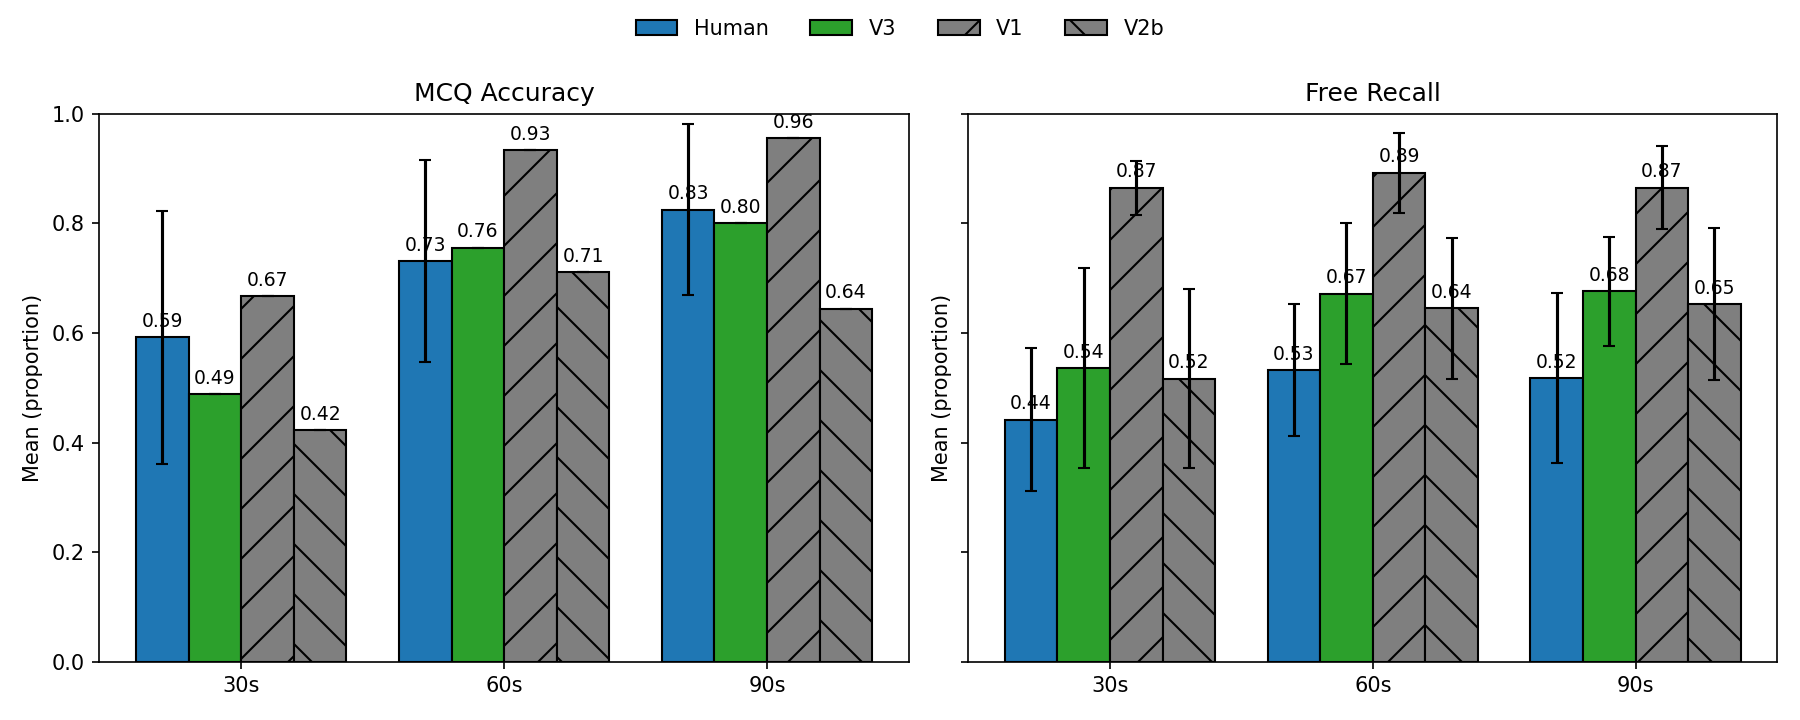
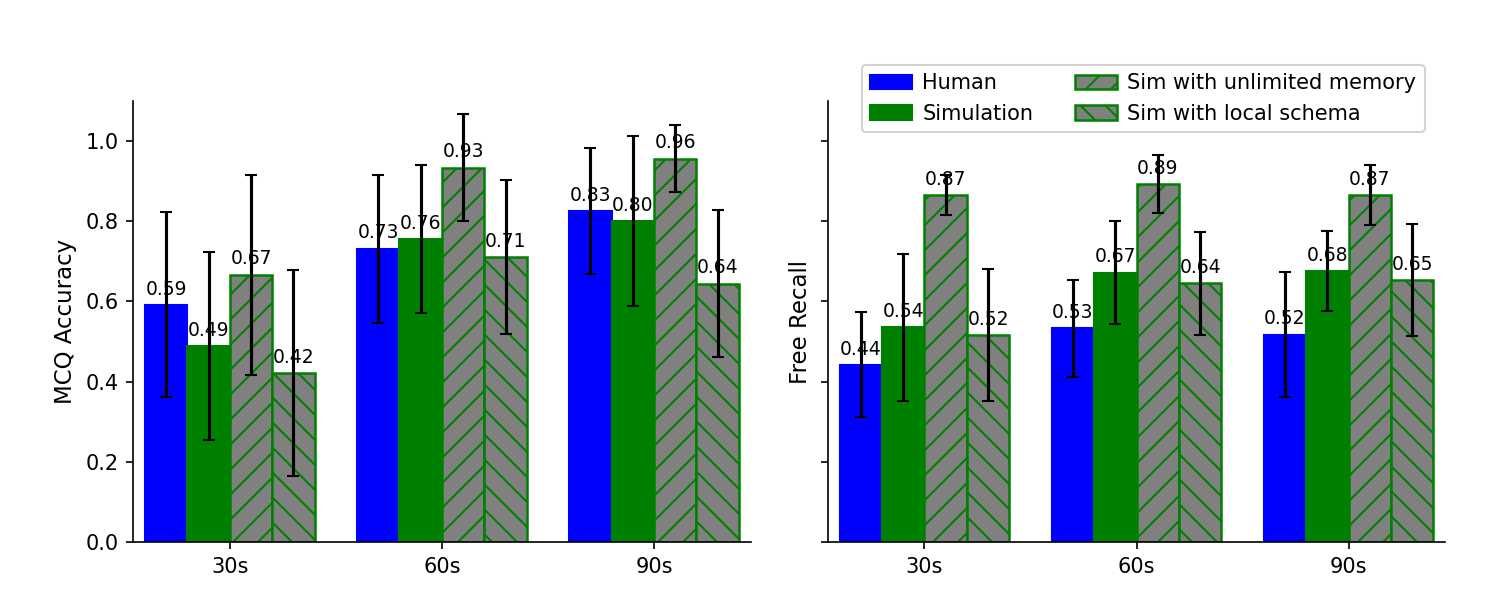
Code >> Plot comprehension results (v3) and baselines (v1 and v2b).

diff --git a/step5/simulators/simulator_v20250604/results/analyze_aggregated_results/offline_kintsch_text_comprehension_runner/plot/plot.py b/step5/simulators/simulator_v20250604/results/analyze_aggregated_results/offline_kintsch_text_comprehension_runner/plot/plot.py
@@ -2,7 +2,7 @@
 # -*- coding: utf-8 -*-
 
 """
-plot.py — Compare human vs three simulation variants (v3, v1, v2b)
+plot.py - Compare human vs three simulation variants (v3, v1, v2b)
 
 Usage:
   python plot.py \
@@ -11,15 +11,15 @@ Usage:
     --v3        path/to/comprehension_metrics_v3.json \
     --v1        path/to/comprehension_metrics_v1.json \
     --v2b       path/to/comprehension_metrics_v2b.json \
-    --out       path/to/output.png
+    --out       path/to/output.png \
+    [--title "Comprehension (MCQ & Free Recall)"]
 
-Notes:
-- Draws TWO subplots in ONE figure:
-    Left  : MCQ means @ 30s, 60s, 90s
-    Right : Free Recall means @ 30s, 60s, 90s
-- Bars are grouped per time bin with the order: Human (blue), V3 (green), V1 (grey / hatch), V2b (grey \\ hatch)
-- Error bars show std if provided.
-- Annotates each bar with its mean value.
+Style choices per request:
+- Figure size & font sizes tuned for compactness
+- Legend placed INSIDE the figure (on FR panel)
+- Figure-level title right-aligned
+- Human = blue; V3 = green; V1/V2b = grey bars with GREEN edges & hatches
+- Two subplots in one figure (left: MCQ, right: Free Recall). No linking lines.
 """
 
 import argparse
@@ -28,6 +28,17 @@ from pathlib import Path
 from typing import Dict, Tuple
 
 import matplotlib.pyplot as plt
+
+# ---------- Global style ----------
+plt.rcParams.update({
+    "figure.figsize": (10, 4.1),
+    "font.size": 11,
+    "axes.titlesize": 12,
+    "axes.labelsize": 11,
+    "xtick.labelsize": 10,
+    "ytick.labelsize": 10,
+    "legend.fontsize": 10,
+})
 
 TIME_BINS = ("30s", "60s", "90s")
 
@@ -40,7 +51,7 @@ HUMAN_FR_STD_KEY   = "fr_std_by_time"
 
 # Simulation files (each contains both MCQ + FR):
 SIM_MCQ_MEAN_KEY = "mcq_accuracy_by_time"
-SIM_MCQ_STD_KEY  = "mcq_std_by_time"        # optional
+SIM_MCQ_STD_KEY  = "mcq_accuracy_std_by_time"        # optional
 SIM_FR_MEAN_KEY  = "fr_mean_by_time"
 SIM_FR_STD_KEY   = "fr_std_by_time"         # optional
 
@@ -109,19 +120,21 @@ def annotate_bars(ax, rects, values):
                     ha="center", va="bottom", fontsize=9)
 
 
-def plot(human, v3, v1, v2b, out_path: Path):
-    # color / hatch per spec
-    colors = {
-        "human": "#1f77b4",  # blue
-        "v3":    "#2ca02c",  # green
-        "v1":    "#7f7f7f",  # grey
-        "v2b":   "#7f7f7f",  # grey
-    }
-    hatches = {
-        "human": None,
-        "v3":    None,
-        "v1":    "/",
-        "v2b":   "\\",
+def plot(human, v3, v1, v2b, out_path: Path, fig_title: str):
+    # palette
+    # blue  = "#1f77b4"  # human
+    # green = "#2ca02c"  # v3 + edge/hatch for baselines
+    grey  = "#7f7f7f"  # baseline fill
+    blue = "blue"
+    green = "green"
+    grey = "grey"
+
+    # face/edge/hatch per series
+    series_style = {
+        "human": dict(color=blue,  edgecolor=blue,  hatch=None,   linewidth=1.0),
+        "v3":    dict(color=green, edgecolor=green, hatch=None,   linewidth=1.0),
+        "v1":    dict(color=grey,  edgecolor=green, hatch="//",   linewidth=1.2),
+        "v2b":   dict(color=grey,  edgecolor=green, hatch="\\\\",  linewidth=1.2),
     }
 
     # Unpack dicts
@@ -133,38 +146,46 @@ def plot(human, v3, v1, v2b, out_path: Path):
     # Values in plotting order: Human, V3, V1, V2b
     groups = [
         ("Human", "human", h_mcq_mean, h_mcq_std, h_fr_mean, h_fr_std),
-        ("V3",    "v3",    v3_mcq_mean, v3_mcq_std, v3_fr_mean, v3_fr_std),
-        ("V1",    "v1",    v1_mcq_mean, v1_mcq_std, v1_fr_mean, v1_fr_std),
-        ("V2b",   "v2b",   v2_mcq_mean, v2_mcq_std, v2_fr_mean, v2_fr_std),
+        ("Simulation",    "v3",    v3_mcq_mean, v3_mcq_std, v3_fr_mean, v3_fr_std),
+        ("Sim with unlimited memory",    "v1",    v1_mcq_mean, v1_mcq_std, v1_fr_mean, v1_fr_std),
+        ("Sim with local schema",   "v2b",   v2_mcq_mean, v2_mcq_std, v2_fr_mean, v2_fr_std),
     ]
 
-    fig, axes = plt.subplots(1, 2, figsize=(12, 4.8), sharey=True)
+    fig, axes = plt.subplots(1, 2, sharey=True)
     mcq_ax, fr_ax = axes
 
     def draw_panel(ax, pick_mean, pick_std, title):
         n_bins = len(TIME_BINS)
         n_groups = len(groups)
         x = list(range(n_bins))
-        total_group_width = 0.8
+        total_group_width = 0.80
         bar_w = total_group_width / n_groups
-
+        
         for i, (label, key, mcq_m, mcq_s, fr_m, fr_s) in enumerate(groups):
             means = [pick_mean(mcq_m, fr_m)[t] for t in TIME_BINS]
             stds  = [pick_std(mcq_s, fr_s)[t]  for t in TIME_BINS]
             offsets = [xi - total_group_width/2 + (i + 0.5)*bar_w for xi in x]
+
+            style = series_style[key]
             rects = ax.bar(offsets, means, bar_w,
                            label=label,
-                           color=colors[key],
-                           hatch=hatches[key],
-                           edgecolor="black",
-                           yerr=stds, capsize=3)
+                           yerr=stds, capsize=3,
+                           edgecolor=style["edgecolor"],
+                           linewidth=style["linewidth"],
+                           color=style["color"],
+                           hatch=style["hatch"])
             annotate_bars(ax, rects, means)
 
         ax.set_xticks(x)
         ax.set_xticklabels(TIME_BINS)
-        ax.set_ylim(0, 1.0)
-        ax.set_title(title)
-        ax.set_ylabel("Mean (proportion)")
+        ax.set_ylim(0, 1.1)
+        # ax.set_title(title, loc="left")
+        ax.set_ylabel(title)
+        ax.margins(x=0.02)
+
+        # cleaner look
+        for spine in ("top", "right"):
+            ax.spines[spine].set_visible(False)
 
     # Left: MCQ
     draw_panel(
@@ -174,7 +195,7 @@ def plot(human, v3, v1, v2b, out_path: Path):
         title="MCQ Accuracy"
     )
 
-    # Right: Free Recall
+    # Right: Free Recall and legend inside this panel
     draw_panel(
         fr_ax,
         pick_mean=lambda mcq_m, fr_m: fr_m,
@@ -182,9 +203,19 @@ def plot(human, v3, v1, v2b, out_path: Path):
         title="Free Recall"
     )
 
-    handles, labels = mcq_ax.get_legend_handles_labels()
-    fig.legend(handles, labels, loc="upper center", ncol=4, frameon=False)
-    fig.tight_layout(rect=[0, 0, 1, 0.92])
+    # Single legend INSIDE FR panel, compact
+    handles, labels = fr_ax.get_legend_handles_labels()
+    fr_ax.legend(handles[:4], labels[:4],
+                 loc="upper right", bbox_to_anchor=(0.98, 1.1),
+                 frameon=True, framealpha=0.85, ncol=2, borderaxespad=0.4,
+                 handlelength=2, handletextpad=0.5, borderpad=0.4,)
+                #  frameon=False, ncol=1, borderaxespad=0.5)
+
+    # Right-aligned figure title
+    if fig_title:
+        fig.suptitle(fig_title, x=0.985, ha="right", y=0.995, fontsize=13, fontweight="bold")
+
+    fig.tight_layout(rect=[0.02, 0.02, 0.98, 0.94])
     fig.savefig(out_path, dpi=150)
     plt.close(fig)
 
@@ -197,6 +228,7 @@ def main():
     ap.add_argument("--v1",        required=True, type=str)
     ap.add_argument("--v2b",       required=True, type=str)
     ap.add_argument("--out",       required=True, type=str)
+    ap.add_argument("--title",     required=False, type=str, default="Comprehension (MCQ & Free Recall)")
     args = ap.parse_args()
 
     human = load_human(Path(args.human_mcq), Path(args.human_fr))
@@ -204,7 +236,7 @@ def main():
     v1     = load_sim(Path(args.v1))
     v2b    = load_sim(Path(args.v2b))
 
-    plot(human, v3, v1, v2b, Path(args.out))
+    plot(human, v3, v1, v2b, Path(args.out), args.title)
 
 
 if __name__ == "__main__":

diff --git a/step5/simulators/simulator_v20250604/results/analyze_aggregated_results/offline_kintsch_text_comprehension_runner/REAME.md b/step5/simulators/simulator_v20250604/results/analyze_aggregated_results/offline_kintsch_text_comprehension_runner/REAME.md
@@ -74,5 +74,9 @@ Best parameter logs will be stored in the ```best_simulation.txt```
 
 # Plot
 ```bash
-python plot.py --human_mcq ../../assets/comprehension_results/human/mcq_acc/human_mcq_acc_metrics.json --human_fr ../../assets/comprehension_results/human/new_free_recall_scores/human_free_recall_metrics.json --v3 ../../assets/comprehension_results/simulation/comprehension_performance_v3/comprehension_metrics_20251006-150327.json --v1 ../../assets/comprehension_results/simulation/comprehension_performance_v1/comprehension_metrics_20251002-071341.json --v2b ../../assets/comprehension_results/simulation/comprehension_performance_v2b/comprehension_metrics_20251007-063005.json --out comprehension_comparison.png
+python plot.py --human_mcq ../../assets/comprehension_results/human/mcq_acc/human_mcq_acc_metrics.json --human_fr ../../assets/comprehension_results/human/new_free_recall_scores/human_free_recall_metrics.json --v3 ../../assets/comprehension_results/simulation/comprehension_performance_v3/comprehension_metrics_20251006-150327.json --v1 ../../assets/comprehension_results/simulation/comprehension_performance_v1/comprehension_metrics_20251002-071341.json --v2b ../../assets/comprehension_results/simulation/comprehension_performance_v2b/comprehension_metrics_20251007-063005.json --out comprehension_comparison.png --title ""
 ```
+
+These color looks nice: 
+- blue:         "human": "#1f77b4"
+- green:        "simulation":    "#2ca02c",  
